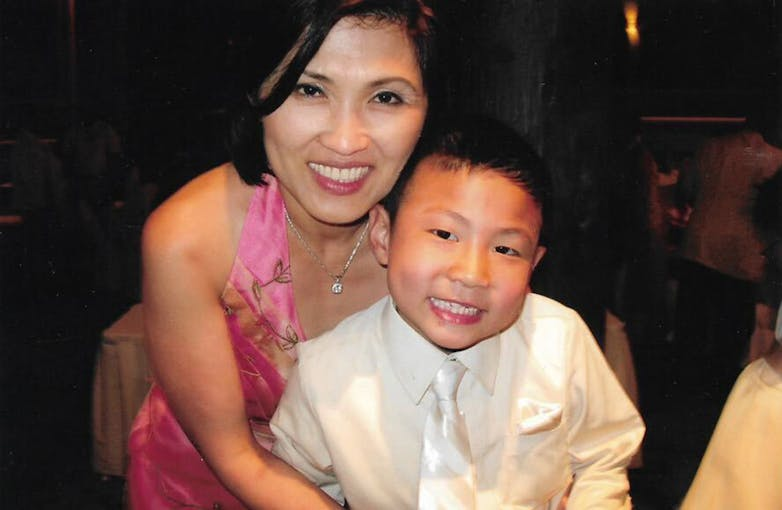
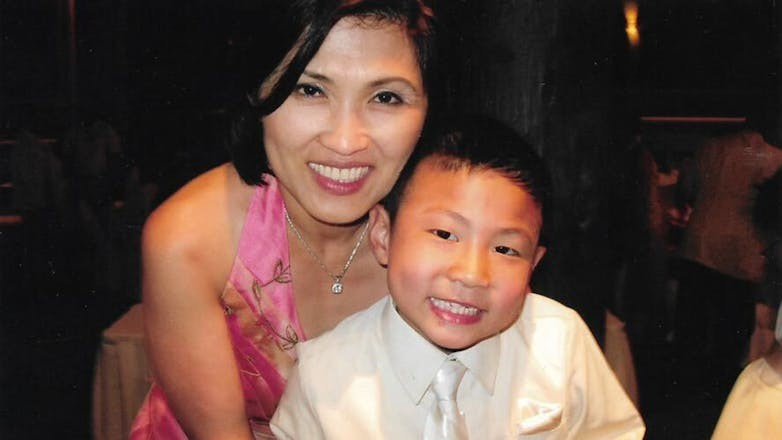
up to three columns on desktop + cropped star tribune image to match 16:9 aspect ratio

diff --git a/src/pages/media.tsx b/src/pages/media.tsx
@@ -125,7 +125,7 @@ function Media() {
         </div>
       </div>
 
-      <div className="relative grid w-80 grid-cols-1 gap-8 py-16 pb-24 tablet:w-[900px] tablet:grid-cols-2 tablet:gap-16">
+      <div className="relative grid w-80 grid-cols-1 gap-8 py-16 pb-24 tablet:w-[900px] tablet:grid-cols-2 tablet:gap-16 desktop:w-[1200px] desktop:grid-cols-3">
         <div className="baseVertFlex h-min w-full !justify-start rounded-md border-2 border-primary shadow-md">
           <div className="baseVertFlex relative w-full bg-primary shadow-md">
             <a
